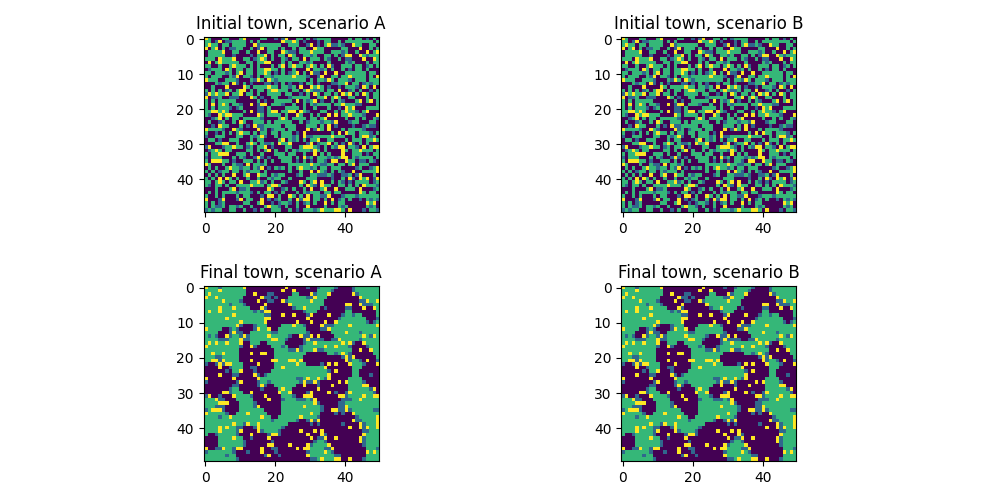
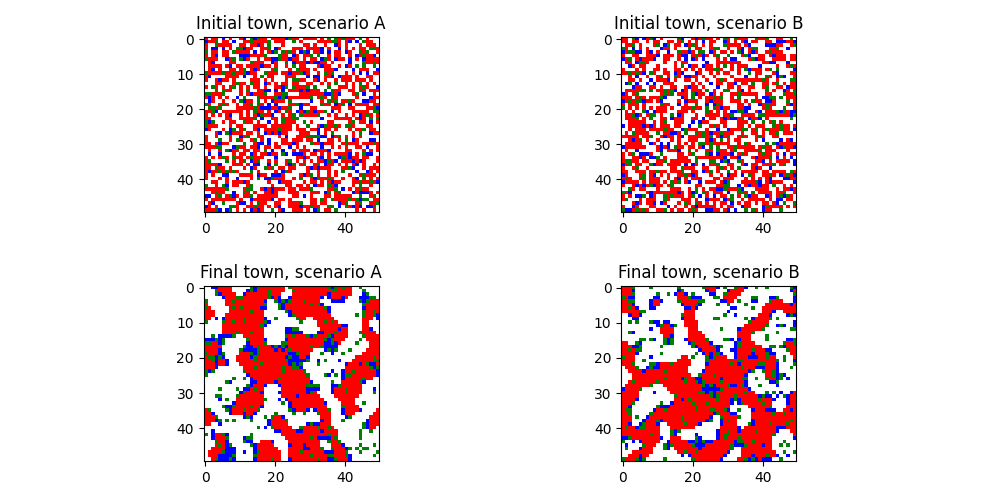
4 done?

diff --git a/#4cd.py b/#4cd.py
@@ -1,3 +1,4 @@
+#4cd
 #4ab
 import numpy as np 
 import matplotlib.pyplot as plt
@@ -34,7 +35,7 @@ def check_family_happiness(L, i, j, f_types):
         return 0  # Empty house, no happiness to evaluate.
     
     if me == C:
-        if np.any(neighborhood == A) or np.any(neighborhood == B):
+        if np.any(neighborhood == A) and np.any(neighborhood == B):
             return 1  # happy C family.
         else:
             return -1  # Unhappy C family.
@@ -114,6 +115,7 @@ def simulate(seed):
     step = 0
     np.random.seed(seed)
     while not stable and step < max_step:
+        print(step)
         time.append(step)
         moves_this_step = 0
 
@@ -175,7 +177,7 @@ plt.imshow(L0, cmap=cmap, norm=norm)
 plt.title('Initial town, scenario A')
 
 plt.subplot(2, 2, 2)
-plt.imshow(L1, cmap=cmap)
+plt.imshow(L1, cmap=cmap, norm=norm)
 plt.title('Initial town, scenario B')
 
 plt.subplot(2, 2, 3)
